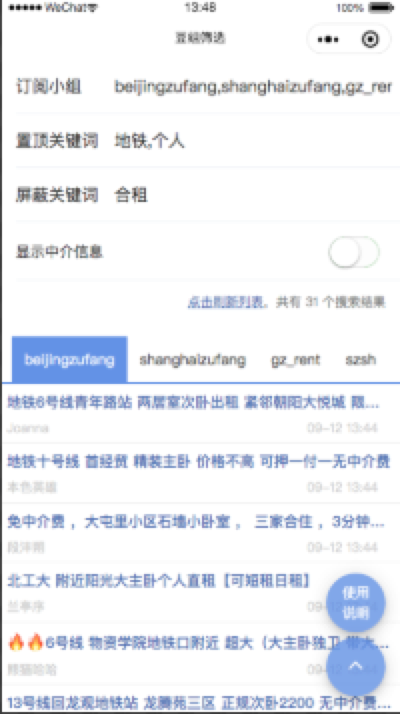
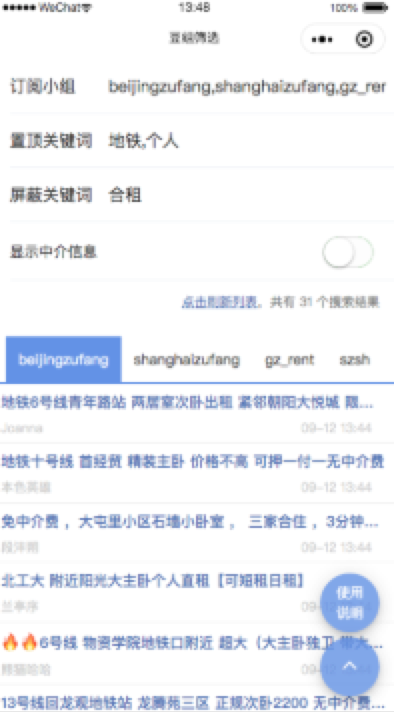
更新img

diff --git a/README.md b/README.md
@@ -5,8 +5,8 @@
 ## 预览
 微信小程序审核后面通过不了了，所以扫码看到的是旧版本的小程序（git tag 0.4.0）<br/>
 ![截屏](https://github.com/jiahui92/taro-douban-group-filter/blob/master/assets/qrcode.jpg)<br/>
-![截屏](https://github.com/jiahui92/taro-douban-group-filter/blob/master/assets/s-index.png)<br/>
-![截屏](https://github.com/jiahui92/taro-douban-group-filter/blob/master/assets/s-content.png)
+<img src="https://github.com/jiahui92/taro-douban-group-filter/blob/master/assets/s-index.png" style="height: 320px;margin-right: 10px;" />
+<img src="https://github.com/jiahui92/taro-douban-group-filter/blob/master/assets/s-content.png" style="height: 320px;" />
 
 
 ## 启动
